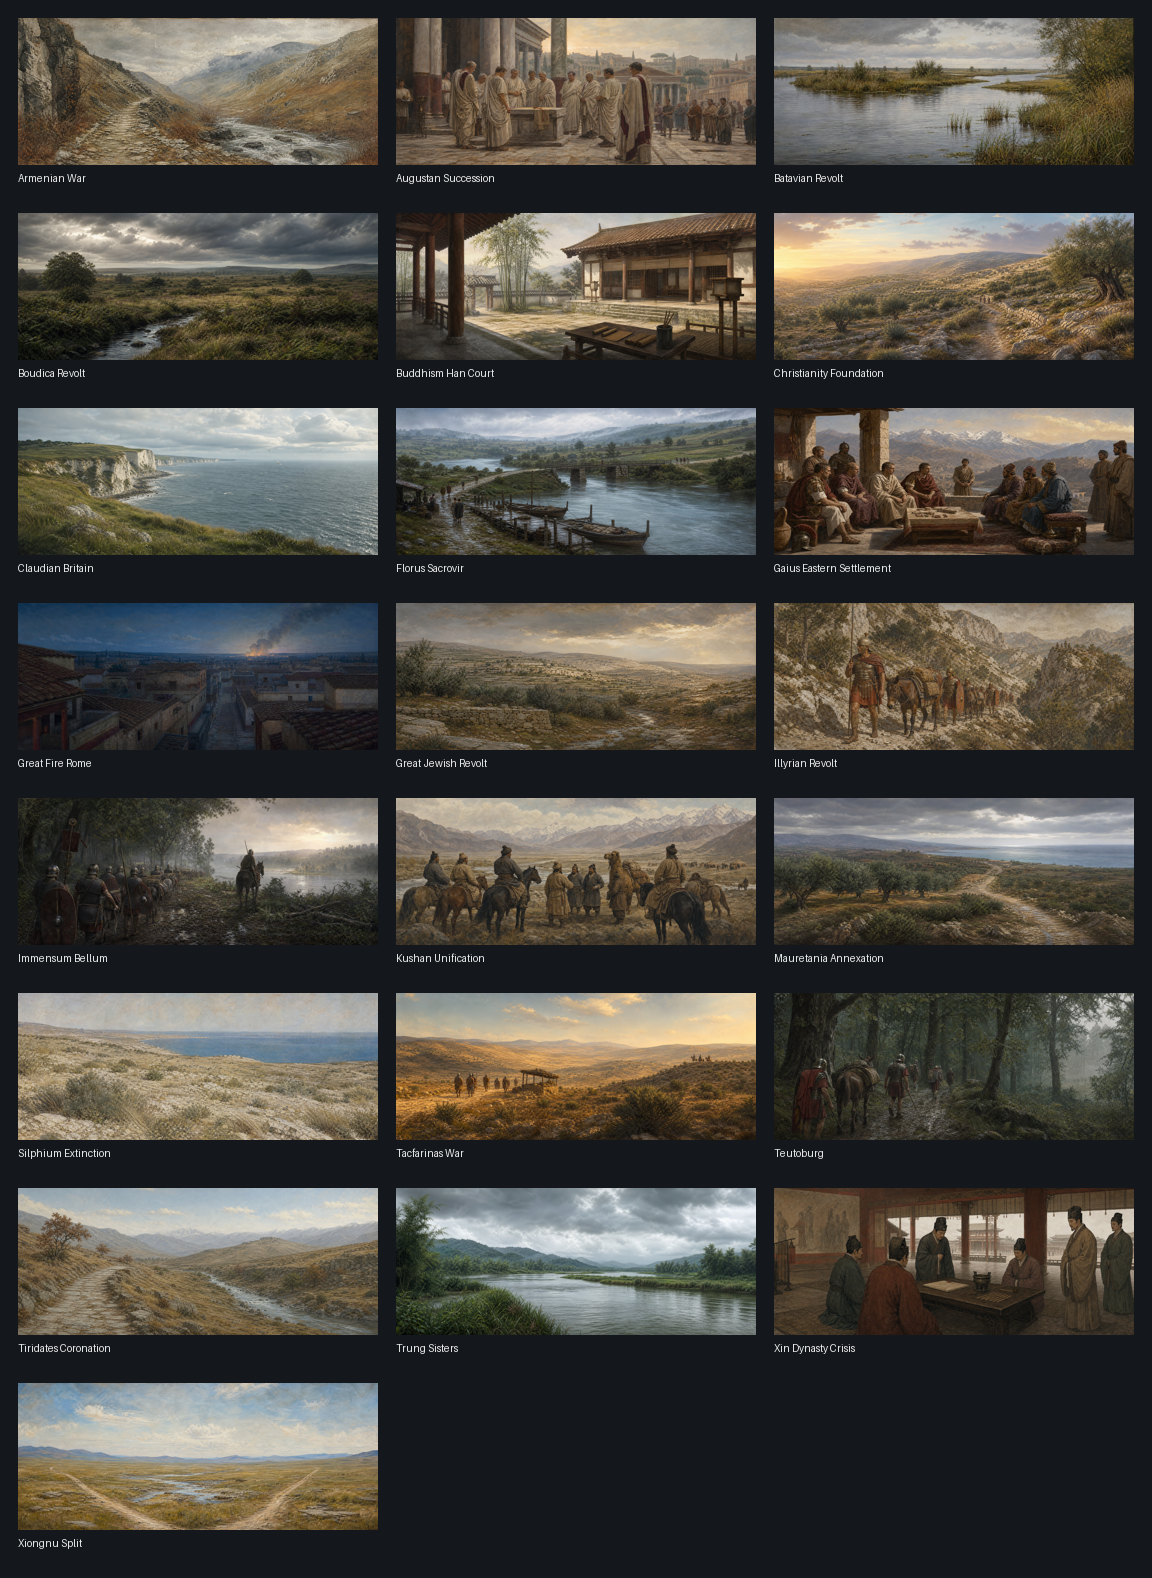
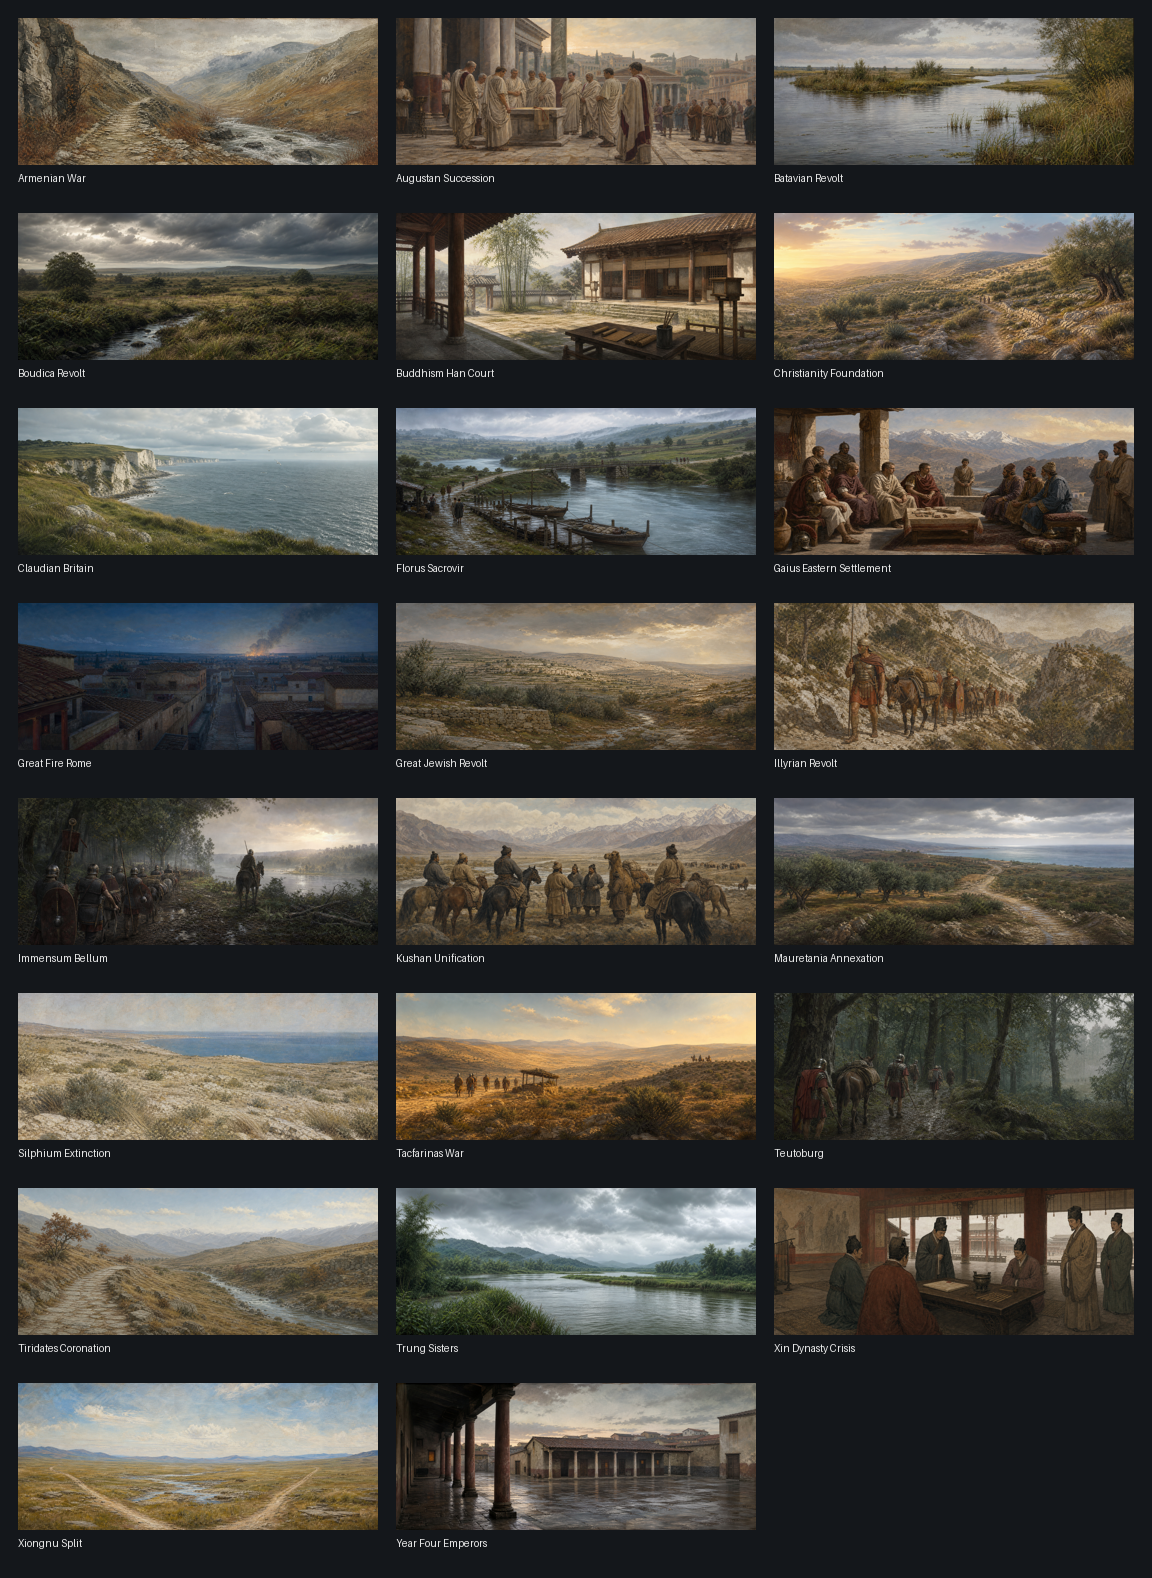
docs(m11): record year of four emperors art

Changed region(s): [[0.3438, 0.8695, 0.6562, 0.9937]]

diff --git a/docs/m11/contact_sheet.html b/docs/m11/contact_sheet.html
@@ -22,4 +22,5 @@
     <figure><img src="../../assets_queue/generated/antq_trung_sisters_1080x440.png" alt="Trung Sisters"><figcaption>Trung Sisters</figcaption></figure>
     <figure><img src="../../assets_queue/generated/antq_xin_dynasty_crisis_1080x440.png" alt="Xin Dynasty Crisis"><figcaption>Xin Dynasty Crisis</figcaption></figure>
     <figure><img src="../../assets_queue/generated/antq_xiongnu_split_1080x440.png" alt="Xiongnu Split"><figcaption>Xiongnu Split</figcaption></figure>
+    <figure><img src="../../assets_queue/generated/antq_year_four_emperors_1080x440.png" alt="Year Four Emperors"><figcaption>Year Four Emperors</figcaption></figure>
 </section></main></body></html>

diff --git a/docs/m11/M11_YEAR_FOUR_EMPERORS_ART.md b/docs/m11/M11_YEAR_FOUR_EMPERORS_ART.md
@@ -1,0 +1,28 @@
+# M11 Year of the Four Emperors illustration
+
+## Asset and scope
+
+The retained source is
+`assets_queue/generated_sources/antq_year_four_emperors_source.png`; its exact
+1080x440 derivative is
+`assets_queue/generated/antq_year_four_emperors_1080x440.png`. The game-facing
+BC7 DDS is
+`main_menu/gfx/interface/illustrations/event/antq_year_four_emperors.dds`.
+
+The text-free image is a generic early-imperial civic square after rainfall:
+rain-wet paving, a simple covered portico, tiled roofs, closed shutters, and
+distant low buildings. It identifies no claimant, ruler, legion, institution,
+specific forum, monument, battle, action, chronology, or outcome. Review
+excluded people, soldiers, animals, weapons, standards, portraits, crowns,
+political symbols, fire, destruction, late architecture, labels, logos, and
+readable writing.
+
+## Engine verification
+
+`EVENT_IMAGES` in `tools/m10_history.py` owns the `antq_m10.1021` image link.
+The texture follows the inspected 1080x440 BC7 country-event form, was
+round-tripped to PNG for visual review, and passed `make validate` plus
+enabled-mod `make smoke` with zero new error-log lines.
+
+Sources: ANTIQVITAS master plan sections 8.1, 9, and 20; local EU5
+country-event image contract.

diff --git a/docs/TODO.md b/docs/TODO.md
@@ -209,7 +209,8 @@ after `make full` and its autonomous driver report are green.
 - [x] Generate, dimension-check, round-trip review, wire, and smoke-test the AD 66 Tiridates' Coronation event illustration through a non-literal Armenian highland diplomacy-context treatment.
 - [x] Generate, dimension-check, round-trip review, wire, and smoke-test the AD 66 Great Jewish Revolt event illustration through a landscape-only Judean environmental-context treatment.
 - [x] Generate, dimension-check, round-trip review, wire, and smoke-test the AD 69 Batavian Revolt event illustration through a non-literal Lower Rhine wetland-context treatment.
-- [x] Render and review the maintained M11 event-art contact sheet (22 retained 1080x440 masters).
+- [x] Generate, dimension-check, round-trip review, wire, and smoke-test the AD 68 Year of the Four Emperors event illustration through a non-literal rain-wet Roman civic-context treatment.
+- [x] Render and review the maintained M11 event-art contact sheet (23 retained 1080x440 masters).
 - [ ] Reach event/decision targets; finish flags, icons, illustrations, loading/age art, localization, glossary, and credits.
 - [ ] Remove common-screen placeholders; run milestone gate and tag `M11-done`.
 

diff --git a/docs/ASSUMPTIONS.md b/docs/ASSUMPTIONS.md
@@ -1,5 +1,15 @@
 # Historical Assumptions
 
+## 2026-07-20 - Year-of-Four-Emperors art is a non-literal civic context
+
+The image is an empty early-imperial civic square after rainfall, with wet
+paving, a simple portico, tiled roofs, closed shutters, and distant low
+buildings. It identifies no claimant, ruler, legion, institution, forum,
+monument, battle, action, chronology, or outcome. It deliberately excludes
+military and political symbols and is not a reconstruction of the AD 68-69
+civil war. Sources weighed: P8.1; plan sections 9 and 20. [secure current
+context; illustrative composition only]
+
 ## 2026-07-20 - Batavian-Revolt art is generic Lower Rhine context
 
 The image is an unoccupied Lower Rhine wetland with a broad slow river branch,

diff --git a/docs/PROGRESS.md b/docs/PROGRESS.md
@@ -1,5 +1,17 @@
 # Progress
 
+## 2026-07-20 - M11 Year of the Four Emperors event illustration
+
+- Added a reviewed, non-literal rain-wet Roman civic-context image to the AD
+  68 Year of the Four Emperors current through the generated event-image
+  contract.
+- The engine-sized BC7 texture was round-trip inspected; `make validate` and
+  enabled-mod smoke are green with zero new error-log lines. The maintained
+  M11 contact sheet now has twenty-three retained event masters.
+
+Next: continue the independent M11 art queue and source-led M5/M6 audit while
+runtime-gated milestone checks remain deferred.
+
 ## 2026-07-20 - M11 Batavian Revolt event illustration
 
 - Added a reviewed, non-literal Lower Rhine wetland-context image to the AD 69

diff --git a/docs/m11/M11_CONTACT_SHEET.md b/docs/m11/M11_CONTACT_SHEET.md
@@ -5,7 +5,7 @@ every retained `assets_queue/generated/antq_*_1080x440.png` master. The HTML
 is the browsable review surface; the PNG is the compact visual record suitable
 for inclusion in the M11 milestone report.
 
-The current review contains twenty-two 1080x440 event masters. It was inspected for
+The current review contains twenty-three 1080x440 event masters. It was inspected for
 omissions, clipped labels, incorrect aspect ratios, readable text, watermarks,
 or obvious anachronistic material. Individual asset records retain the more
 specific historical-scope findings and engine checks.
